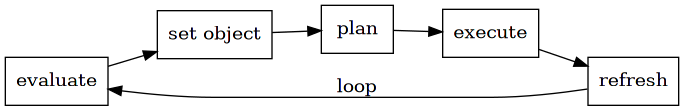
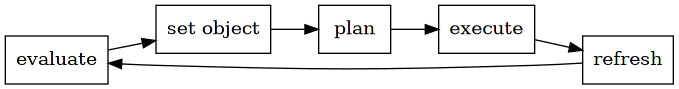
[skip ci]

diff --git a/content/post/goal-theory/index.md b/content/post/goal-theory/index.md
@@ -2,7 +2,7 @@
 title: "Life Model"
 author: ["DreamAndDead"]
 date: 2021-03-23T16:05:00+08:00
-lastmod: 2021-03-25T16:26:10+08:00
+lastmod: 2021-03-26T10:28:41+08:00
 tags: ["life", "mind", "goal", "theory"]
 categories: ["Mind"]
 draft: true
@@ -19,6 +19,9 @@ featured_image: "images/featured.jpg"
 -   时间管理
 -   奇特的一生
 -   拖延的心理
+-   GTD 理论
+
+每种理论的认知都是不完全的
 
 源由
 
@@ -48,6 +51,10 @@ featured_image: "images/featured.jpg"
 提出一个假设，
 
 > 人生的意义 就是 追求价值的最大化
+>
+> / 达成某一件事
+
+最为充实的方向，价值方向
 
 听到人说，“这么做没意义”，没有价值，认为是浪费时间
 
@@ -97,9 +104,12 @@ Agent 之内，就是物质与精神，是与生俱来的
 -   权力，做他人不可做之事
 -   声望
 
+TODO illus
+
 统称为资产
 
-每一项资源都存在相应的指标
+每一项资源都存在相应的属性
+相应的指标
 
 可比较
 
@@ -143,6 +153,9 @@ Agent 个体的主观认同。
 
 不用精神胜利法，价值，总是寄托在实体上。
 
+单纯内修的人，是一种逃避现实的精神胜利
+单纯外修的人，往往失去真正的自我
+
 内外兼修，内圣外王的辩证关系
 
 可量化？
@@ -150,71 +163,91 @@ Agent 个体的主观认同。
 可交换？
 
 
+### State {#state}
+
+Agent 在时间线上演变，当下就是 snapshot
+
+不停的 State 变化
+
+资产集合的变化
+
+
 ### Object {#object}
 
-目标是 agent 的一个状态点
+来自 OKR 的 O 概念，设立明确的目标
+
+Agent 既然是一个集合，无法脱离时间而存在
+
+每个 snapshot 都是当下的状态
+
+目标是根据价值而设立的，一个 Agent 在某个时间点的状态，（目标状态）
 
 目标是在某个时间点上的
 
-可以根据资源来划分，也可以根据身份来划分
+资产有多个划分维度
 
-目标可以进行分解，小到力之所及
+-   资产本身
+-   身份
 
 目标是具体的，可量化的
 
 
-### Result {#result}
-
-实际结果
-
-在某个时间点上的实际状态
-
-可以和对应的目标对比，比较差距
-
-
 ### Thing {#thing}
 
-事情是改变 agent 状态的链接
+所谓做事
 
-通过做事，来达到目标
+假如什么都不做，必定停留在原地，一动不动
 
-每件事都有自己的成本，会消耗一定的资源
+事情可以改变 Agent 状态，是将不同状态连接起来
+
+根据投资理论，
+做事必须有相应的投入，便是成本，消耗相应的资源，本身也对应着回报
+
+达成之后，会带来状态的改变，回报 - 投入
+
+回报和投入的概念是广泛的
+
+当下到目标之间，就是由多个子状态连接的
+
+通过做事，来达到目标，慢慢向目标靠近
 
 
 ## Model {#model}
 
+
+### Life circle {#life-circle}
+
 {{< figure src="images/theory-loop.png" >}}
 
-1.  evaluate，评估自身，探讨自己的价值观
-2.  set object，制定最大化自身价值的目标
-3.  plan，目标分解，安排事情
-4.  execute，执行计划
-5.  refresh，收集结果，总结经验
-6.  loop，agent 自身状态已经发生变化，需要再次开始这个过程
+1.  evaluate，评估自身，认知自我，探讨自己的价值观，和资源情况
+2.  set object，制定最大化自身价值的长期目标
+3.  plan，目标分解，为短期目标，安排事情
+4.  execute，在时间线上，执行计划
+5.  refresh，更新状态，总结经验
+6.  agent 自身状态已经发生变化，重新评估，开始这个循环，
+    因为自身的改变，会使得认知，心性，目标，计划方法都发生改变，
+    从而影响之后的整个蓝图，所以这一步要重新开始修正
 
 
 ### evaluate {#evaluate}
 
-评估自我的资源状态，自我的价值取向
+> 认识你自己
 
-单纯内修的人，是一种逃避现实的精神胜利
-单纯外修的人，往往失去真正的自我
+评估自我的价值取向，资源状态
 
-分析自我
+很多人并不了解自己，往往觉得在工作中，在生活中，
+某个瞬间，感觉失去了真我，和内心相背离。
+
+从一开始就必须认清楚的事情，而是被外界推着走，随波逐流
+
+TODO post 如何评估自己的价值取向，适合做什么，用什么方法？如何分析自我
 
 -   喜欢和不喜欢的事
 -   羡慕和讨厌的事
 -   擅长与不擅长的事
 
-post
-如何分析自我
-
 
 ### set object {#set-object}
-
-探索与探究的矛盾
-
-新鲜的，启发思路
 
 目标表示一个时间点的状态
 
@@ -235,6 +268,14 @@ post
 更新的速度
 时刻影响 agent 自身
 对于价值的判断，目标的设定与修改
+
+RL 中概念，探索与探究的矛盾
+
+如果就一条路一直走下去，可能不是最优的，为探究
+同时应该探索其它方面，新鲜的，启发思路，为探索
+
+新闻
+其它领域
 
 
 ### plan {#plan}
@@ -258,6 +299,12 @@ post
 分解的小目标必须和大目标一样，是可量化的。
 比如将 lua book 目标分解到最小，“发布 gc 章节”，看起来像是一件事情，
 也可以看作是一个 bool 属性的小目标，因为最终只能衡量 发布/未发布 两种结果。
+
+目标 - 现状的距离可以分解，
+
+在时间线上分解，小到力之所及
+
+{{< figure src="images/overview.png" >}}
 
 
 ### execute {#execute}
@@ -287,6 +334,10 @@ post
 
 
 ### refresh {#refresh}
+
+先更新内在，的精神
+
+再评估总结资产
 
 更新自我，对过去有良好的统计，整理和总结，使自己得到提升。
 

diff --git a/content/post/beyond-time-limit/index.md b/content/post/beyond-time-limit/index.md
@@ -2,7 +2,7 @@
 title: "如何超越时间的限制"
 author: ["DreamAndDead"]
 date: 2021-03-22T13:22:00+08:00
-lastmod: 2021-03-23T16:05:55+08:00
+lastmod: 2021-03-26T10:12:41+08:00
 tags: ["life", "mind", "time"]
 categories: ["Mind"]
 draft: false
@@ -67,7 +67,7 @@ featured_image: "images/featured.jpg"
 时间是浪费不起的，高效利用时间变相等同于延长了个人可用的时间。
 
 并行化是一个明显的方式。
-在烧水时准备茶叶；在下载文件时继续编程；在地铁通勤时读书。
+在烧水时准备茶叶；在地铁通勤时读书，在编程时下载文件。
 这些事都是并行不悖的。
 
 并行化的理念可以从个人拓展到多人。
